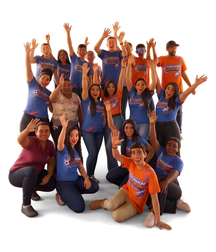
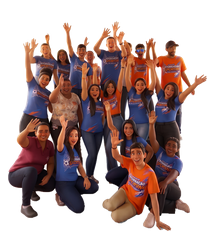
Corrigir fundo de 10 avatares

diff --git a/sw.js b/sw.js
@@ -1,5 +1,5 @@
 /* Service Worker — Clima Balsas */
-const CACHE = 'clima-balsas-v56';
+const CACHE = 'clima-balsas-v57';
 const ASSETS = [
   './',
   './index.html',
